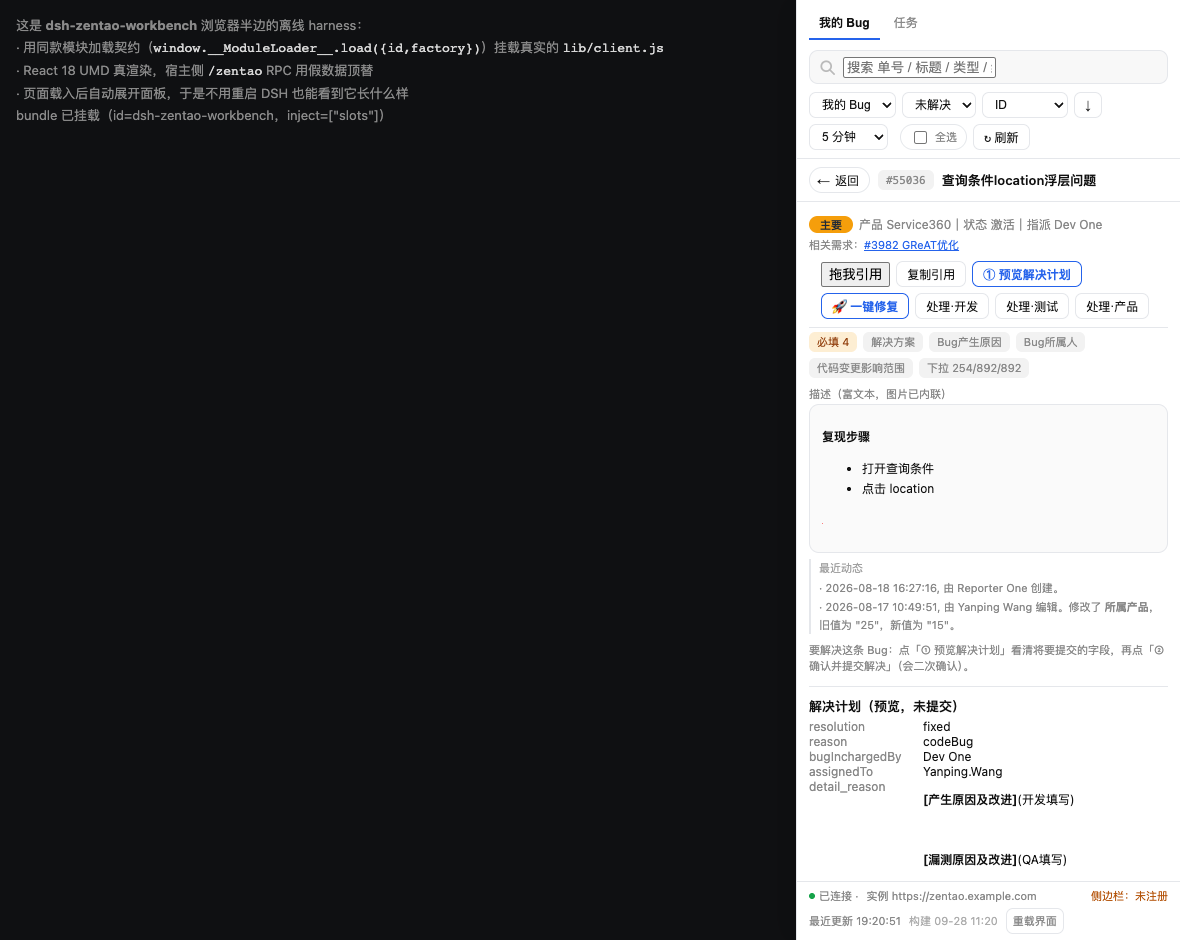
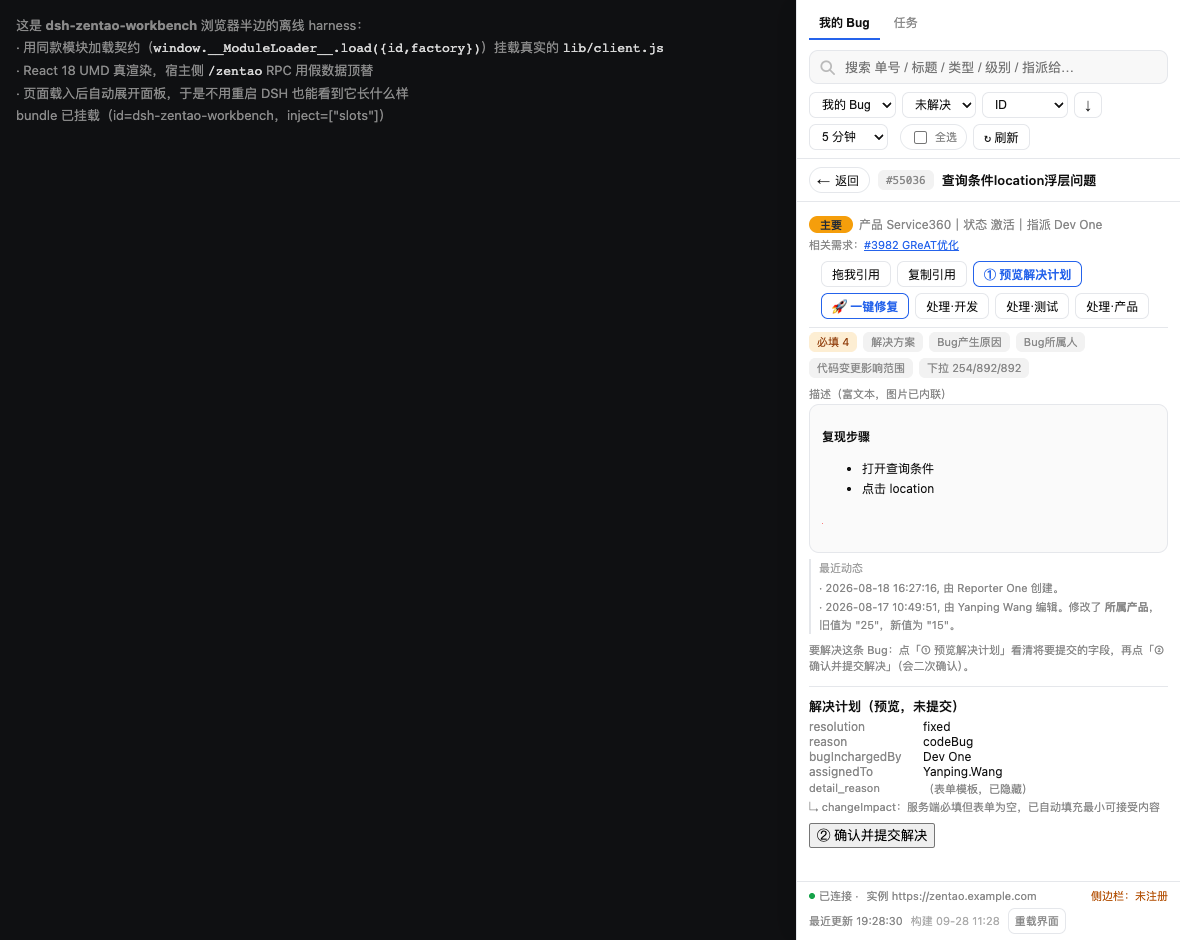
隐藏表单模板字段：detail_reason 是模板就不展示（用户要求，不做编辑能力）
用户明确：「不要"编辑单据"的能力，隐藏掉这个」—— 于是不加编辑能力，改为在面板里
**把那段模板隐藏掉**。

- 计划预览新增 `isFormTemplate(name, value)`：`detail_reason` 的值里出现
  `[产生原因及改进]` / `[漏测原因及改进]` 这种禅道表单模板标题，就判定为"未填写的默认值"；
- 命中时**不渲染该字段**（原来是渲染成富文本，模板的标签文字反复引起误解），
  只留一行浅色说明：`detail_reason （表单模板，已隐藏）`，tooltip 说明"不影响提交"；
- 真实填写的说明照旧按富文本展示（`richValue` 不动）。

验证：浏览器实测 `richValueRenderedAsHtml: false`（模板不再渲染）、
`rawTagsVisibleInPlan: false`（页面无裸标签）、无报错；vitest 114/114。

注：宿主侧 `resolve.ts` 的 `htmlToText`（提交前把模板转纯文本）保留 —— 它防的是
"再次把模板写进单子"，与本次的"不再展示"是两件事，都需要重启 DSH 才生效。

diff --git a/lib/client.js b/lib/client.js
@@ -512,6 +512,22 @@ const DISCIPLINE = [
  * correctly on the light and the dark theme.
  */
 /**
+ * Is this resolve-form value ZenTao's untouched HTML template?
+ *
+ * The default carries the boilerplate headings `[产生原因及改进]` /
+ * `[漏测原因及改进]` plus padding `<br>`s. Submitting it wrote markup into the
+ * ticket, and displaying it puzzled everyone who saw the raw tags — so the panel
+ * hides it (the host also converts it to plain text before submitting).
+ */
+function isFormTemplate(name, value) {
+    if (name !== 'detail_reason')
+        return false;
+    const text = String(value ?? '');
+    if (text.trim() === '')
+        return false;
+    return /\[\s*产生原因及改进\s*\]/.test(text) || /\[\s*漏测原因及改进\s*\]/.test(text);
+}
+/**
  * Render a resolve-form value.
  *
  * ZenTao's `detail_reason` default is an HTML template
@@ -1366,7 +1382,16 @@ function ZentaoPanel(deps) {
             const planSection = plan === null || selected === null ? null : (0, react_1.createElement)('div', {
                 key: 'plan',
                 style: { borderTop: `1px solid ${TOKEN.line}`, marginTop: 12, paddingTop: 10 },
-            }, (0, react_1.createElement)('div', { style: { fontWeight: 600, marginBottom: 4 } }, plan.blocked ? '解决计划（被拦，不能提交）' : '解决计划（预览，未提交）'), ...plan.fields.map(([name, value]) => (0, react_1.createElement)('div', { key: name, style: { fontSize: 12, display: 'flex', gap: 6 } }, (0, react_1.createElement)('span', { style: { color: TOKEN.dim, minWidth: 108 } }, name), richValue(value))), ...Object.entries(plan.autoFilled).map(([name, why]) => (0, react_1.createElement)('div', { key: `af-${name}`, style: { fontSize: 11, color: TOKEN.dim, marginTop: 2 } }, `↳ ${name}：${why}`)), ...plan.problems.map((problem) => (0, react_1.createElement)('div', { key: problem, style: { fontSize: 12, color: TOKEN.danger, marginTop: 2 } }, `✘ ${problem}`)), (0, react_1.createElement)('div', { style: { marginTop: 8, display: 'flex', gap: 8 } }, (0, react_1.createElement)('button', {
+            }, (0, react_1.createElement)('div', { style: { fontWeight: 600, marginBottom: 4 } }, plan.blocked ? '解决计划（被拦，不能提交）' : '解决计划（预览，未提交）'), ...plan.fields
+                // The form's `detail_reason` default is ZenTao's HTML template
+                // (`<p><strong>[产生原因及改进]</strong>…`). It is boilerplate, not
+                // content, and showing it only ever caused confusion — so it is
+                // hidden rather than rendered (user: 「隐藏掉这个」). A one-line note
+                // keeps the field's existence visible.
+                .filter(([name, value]) => !isFormTemplate(name, value))
+                .map(([name, value]) => (0, react_1.createElement)('div', { key: name, style: { fontSize: 12, display: 'flex', gap: 6 } }, (0, react_1.createElement)('span', { style: { color: TOKEN.dim, minWidth: 108 } }, name), richValue(value))), ...(plan.fields.some(([name, value]) => isFormTemplate(name, value))
+                ? [(0, react_1.createElement)('div', { key: 'tpl-hidden', style: { fontSize: 11, color: TOKEN.dim, marginTop: 2, display: 'flex', gap: 6 } }, (0, react_1.createElement)('span', { style: { minWidth: 108 } }, 'detail_reason'), (0, react_1.createElement)('span', { title: '未填写时禅道表单给的是 HTML 模板，已隐藏；不影响提交' }, '（表单模板，已隐藏）'))]
+                : []), ...Object.entries(plan.autoFilled).map(([name, why]) => (0, react_1.createElement)('div', { key: `af-${name}`, style: { fontSize: 11, color: TOKEN.dim, marginTop: 2 } }, `↳ ${name}：${why}`)), ...plan.problems.map((problem) => (0, react_1.createElement)('div', { key: problem, style: { fontSize: 12, color: TOKEN.danger, marginTop: 2 } }, `✘ ${problem}`)), (0, react_1.createElement)('div', { style: { marginTop: 8, display: 'flex', gap: 8 } }, (0, react_1.createElement)('button', {
                 type: 'button',
                 disabled: plan.blocked,
                 style: { cursor: plan.blocked ? 'not-allowed' : 'pointer' },
@@ -1515,7 +1540,7 @@ function ZentaoPanel(deps) {
         'data-zentao-build': '1',
         title: '客户端构建时间：刷新后若这一行没变，说明页面还在跑旧代码',
         style: { opacity: .7 },
-    }, `构建 ${typeof "2026-09-28 11:26" === 'string' ? "2026-09-28 11:26".slice(5) : '?'}`), sidebarReg === undefined || !sidebarReg.registered
+    }, `构建 ${typeof "2026-09-28 11:28" === 'string' ? "2026-09-28 11:28".slice(5) : '?'}`), sidebarReg === undefined || !sidebarReg.registered
         ? null
         : (0, react_1.createElement)('button', {
             type: 'button',

diff --git a/src/client/panel.ts b/src/client/panel.ts
@@ -173,6 +173,21 @@ const DISCIPLINE = [
  * correctly on the light and the dark theme.
  */
 /**
+ * Is this resolve-form value ZenTao's untouched HTML template?
+ *
+ * The default carries the boilerplate headings `[产生原因及改进]` /
+ * `[漏测原因及改进]` plus padding `<br>`s. Submitting it wrote markup into the
+ * ticket, and displaying it puzzled everyone who saw the raw tags — so the panel
+ * hides it (the host also converts it to plain text before submitting).
+ */
+function isFormTemplate(name: string, value: unknown): boolean {
+  if (name !== 'detail_reason') return false
+  const text = String(value ?? '')
+  if (text.trim() === '') return false
+  return /\[\s*产生原因及改进\s*\]/.test(text) || /\[\s*漏测原因及改进\s*\]/.test(text)
+}
+
+/**
  * Render a resolve-form value.
  *
  * ZenTao's `detail_reason` default is an HTML template
@@ -1076,9 +1091,21 @@ export function ZentaoPanel(deps: PanelDeps): ReactNode {
         style: { borderTop: `1px solid ${TOKEN.line}`, marginTop: 12, paddingTop: 10 },
       },
           createElement('div', { style: { fontWeight: 600, marginBottom: 4 } }, plan.blocked ? '解决计划（被拦，不能提交）' : '解决计划（预览，未提交）'),
-          ...plan.fields.map(([name, value]) => createElement('div', { key: name, style: { fontSize: 12, display: 'flex', gap: 6 } },
-            createElement('span', { style: { color: TOKEN.dim, minWidth: 108 } }, name),
-            richValue(value))),
+          ...plan.fields
+            // The form's `detail_reason` default is ZenTao's HTML template
+            // (`<p><strong>[产生原因及改进]</strong>…`). It is boilerplate, not
+            // content, and showing it only ever caused confusion — so it is
+            // hidden rather than rendered (user: 「隐藏掉这个」). A one-line note
+            // keeps the field's existence visible.
+            .filter(([name, value]) => !isFormTemplate(name, value))
+            .map(([name, value]) => createElement('div', { key: name, style: { fontSize: 12, display: 'flex', gap: 6 } },
+              createElement('span', { style: { color: TOKEN.dim, minWidth: 108 } }, name),
+              richValue(value))),
+          ...(plan.fields.some(([name, value]) => isFormTemplate(name, value))
+            ? [createElement('div', { key: 'tpl-hidden', style: { fontSize: 11, color: TOKEN.dim, marginTop: 2, display: 'flex', gap: 6 } },
+                createElement('span', { style: { minWidth: 108 } }, 'detail_reason'),
+                createElement('span', { title: '未填写时禅道表单给的是 HTML 模板，已隐藏；不影响提交' }, '（表单模板，已隐藏）'))]
+            : []),
           ...Object.entries(plan.autoFilled).map(([name, why]) => createElement('div', { key: `af-${name}`, style: { fontSize: 11, color: TOKEN.dim, marginTop: 2 } }, `↳ ${name}：${why}`)),
           ...plan.problems.map((problem) => createElement('div', { key: problem, style: { fontSize: 12, color: TOKEN.danger, marginTop: 2 } }, `✘ ${problem}`)),
           createElement('div', { style: { marginTop: 8, display: 'flex', gap: 8 } },
